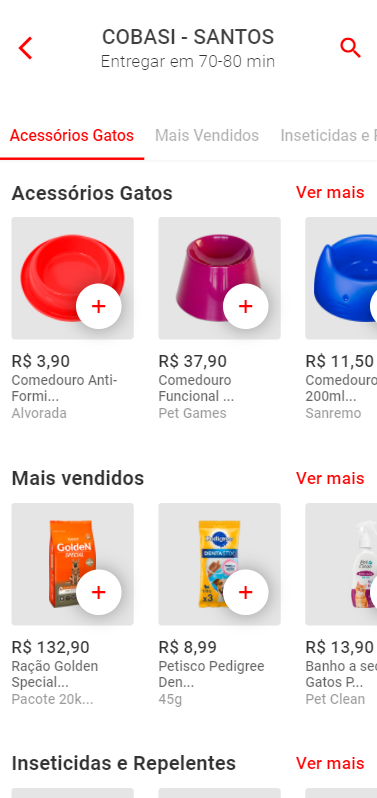
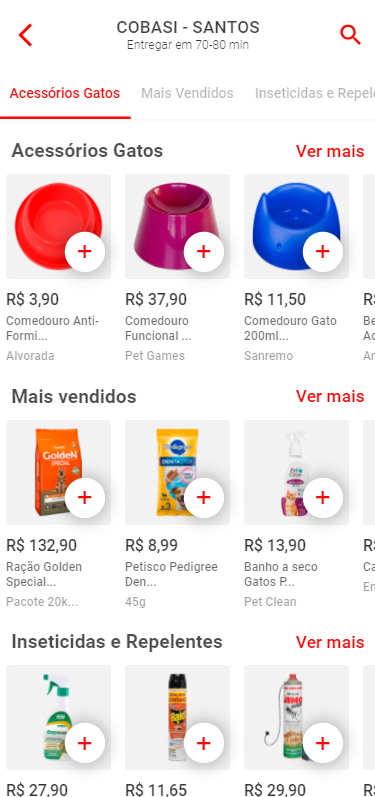
Ajustes Tela produto mais vendido

diff --git a/Desc-produto/style.css b/Desc-produto/style.css
@@ -11,7 +11,7 @@ body {
 
 header {
   width: 100%;
-  height: 20vh;
+  height: 15vh;
   position: fixed;
   background-color: #fff;
 }
@@ -24,20 +24,20 @@ header .seller-info {
 }
 
 header .seller-info-title {
-  font-size: 60px;
+  font-size: 50px;
   color: rgba(0, 0, 0, 0.75);
 }
 
 header .seller-info-body {
   color: rgba(0, 0, 0, 0.8);
+  font-size: 35px;
   font-weight: 300;
 }
 
 nav {
   width: 100%;
-  height: 20vh;
+  height: 15vh;
   box-shadow: 0 1px 10px rgba(0, 0, 0, 0.1);
-
   position: relative;  
 }
 
@@ -45,7 +45,7 @@ nav .nav-info {
   display: flex;
   align-items: center;
   justify-content: space-between;
-  padding: 70px 35px 35px;
+  padding: 50px 35px 35px;
 }
 
 nav .nav-icon {
@@ -69,7 +69,7 @@ nav .slide-bar {
 nav .slide-bar .slide-bar-item {
   height: 90px;
   margin: 0 30px;
-  font-size: 45px;
+  font-size: 40px;
   color: rgba(0, 0, 0, 0.3);
 }
 
@@ -106,7 +106,7 @@ main .category {
 main .category::before {
   content: "";
   display: block;
-  height: 21vh;
+  height: 16vh;
   margin: -20vh 0 0;
 }
 
@@ -124,10 +124,16 @@ main .category .category-header a {
   color: red;
 }
 
+main .category .category-header h3 {
+  color: rgba(0, 0, 0, 0.7);
+  font-size: 55px;
+}
+
 main .category .category-slider {
   justify-content: space-between;
   display: flex;
   overflow: scroll;
+  margin-bottom: 100px;
 }
 
 main .category .category-slider::-webkit-scrollbar {
@@ -136,16 +142,16 @@ main .category .category-slider::-webkit-scrollbar {
 
 main .category .category-item {
   width: 350px;
-  margin: 0 35px;
+  margin: 0 20px;
 }
 
 main .category .category-slider .category-img-container {
-  height: 350px;
-  width: 350px;
-  background-color: rgba(0, 0, 0, 0.10);
+  height: 300px;
+  width: 300px;
+  background-color: rgba(0, 0, 0, 0.05);
   border-radius: 10px;
   text-align: center;
-  padding-top: 50px;
+  padding-top: 25px;
   margin-bottom: 30px;
   display: flex;
   justify-content: center;
@@ -157,8 +163,8 @@ main .category .category-slider .category-img-container .add-to-cart {
   background-color: rgba(0, 0, 0, 0.1);
   font-size: 80px;
   color: red;
-  width: 130px;
-  height: 130px;
+  width: 115px;
+  height: 115px;
   box-shadow: 0 0 50px 5px rgba(0, 0, 0, 0.3);
   background-color: #fff;
   border: none;
@@ -171,24 +177,26 @@ main .category .category-slider .category-img-container .add-to-cart {
 }
 
 main .category .category-slider .category-img-container img {
-  height: 250px;
-  max-width: 300px;
+  max-height: 250px;
+  max-width: 250px;
   display: flex;
 }
 
 main .category .category-slider .category-item .price {
-  font-size: 50px;  
+  font-size: 45px;  
+  margin-bottom: 15px;
   color: rgba(0, 0, 0, 0.8);
 }
 
 main .category .category-slider .category-item .item-description {
-  font-size: 40px;
+  font-size: 35px;
   font-weight: 500;
+  margin-bottom: 15px;
   color: rgba(0, 0, 0, 0.6);
 }
 
 main .category .category-slider .category-item .item-information {
-  font-size: 40px;
+  font-size: 35px;
   font-weight: 500;
   color: rgba(0, 0, 0, 0.4);
 }
